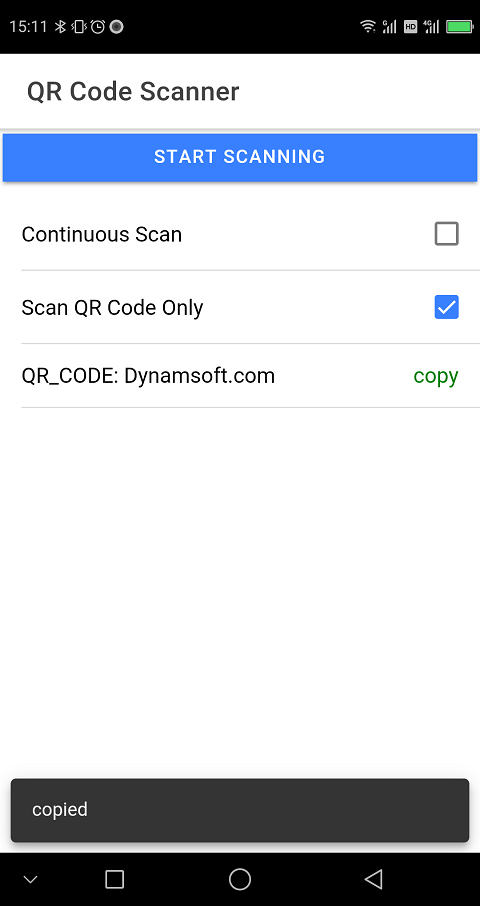
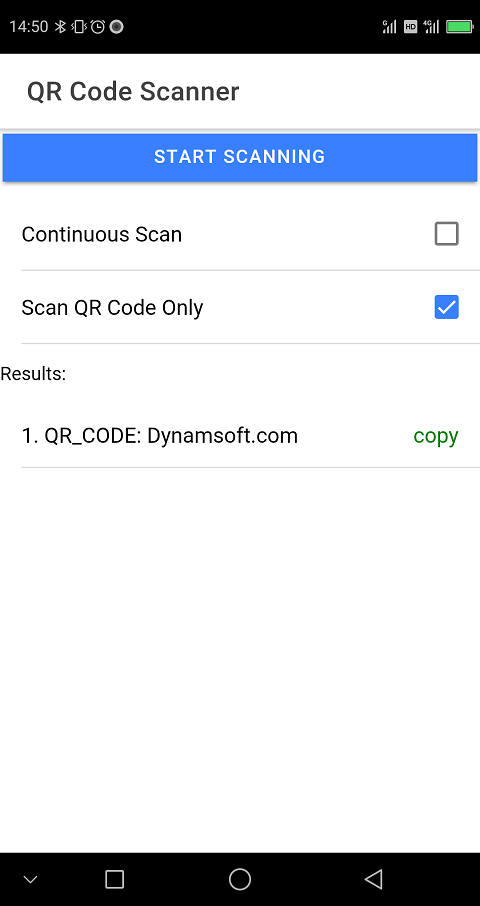
update code and screenshot

diff --git a/_posts/2022-03-23-ionic-react-qr-code-scanner.md b/_posts/2022-03-23-ionic-react-qr-code-scanner.md
@@ -248,6 +248,11 @@ const copyBarcode = (text:string) => {
 
 //......
 
+{(barcodeResults.length>0) &&
+  <IonListHeader>
+    <IonLabel>Results:</IonLabel>
+  </IonListHeader>
+}
 {barcodeResults.map((tr,idx) => (
   <IonItem key={idx}>
     <IonLabel>{tr.barcodeFormat + ": " + tr.barcodeText}</IonLabel>
@@ -566,12 +571,14 @@ const Scanner = (props:RouteComponentProps) => {
       ```js
       frameReadListener = await DBR.addListener('onFrameRead', async (scanResult:ScanResult) => {
         let results = scanResult["results"];
+        if (scanResult.deviceOrientation) {
+          updateViewBox(scanResult.deviceOrientation);
+        }
         if (state.continuousScan == true) {
           if (scanResult.frameOrientation != undefined && scanResult.deviceOrientation != undefined) {
             for (let index = 0; index < results.length; index++) {
               handleRotation(results[index], scanResult.deviceOrientation, scanResult.frameOrientation);
             }
-            updateViewBox(scanResult.deviceOrientation);
           }
           setBarcodeResults(results);
         }
